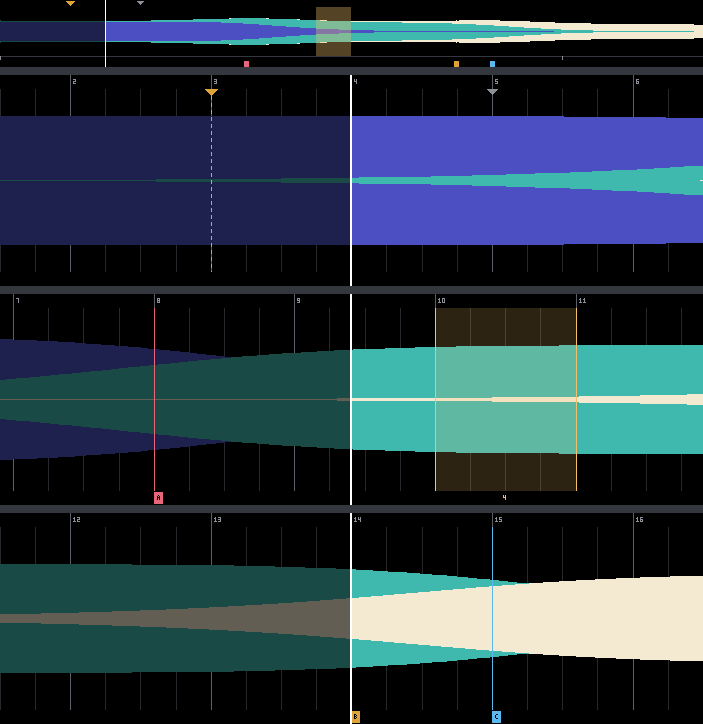
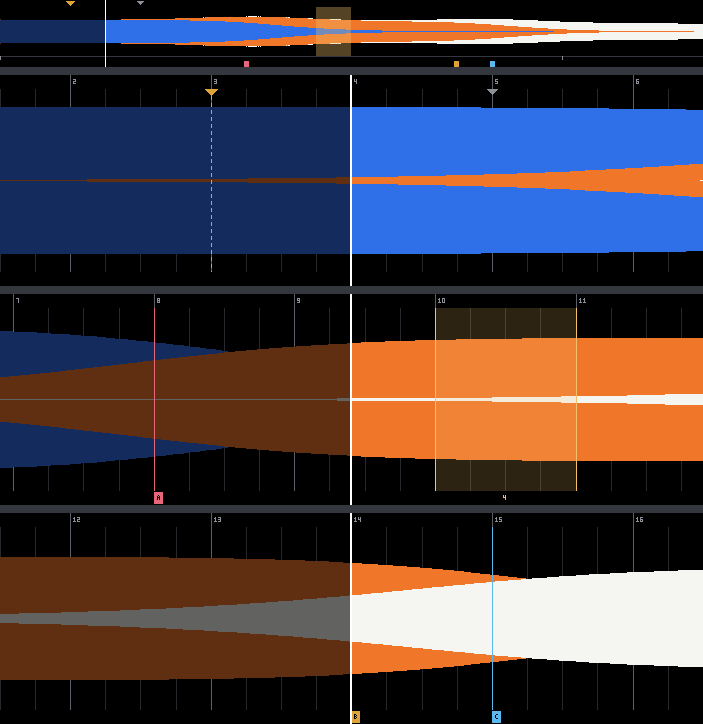
Waveform previews regenerated; decisions recorded in the spike
Auto gain, themes and the blue/orange/white default palette (superseding
the findings.md palette) under Decisions in docs/spikes/waveforms.md.
Previews: default theme for every signal, a -30 dB track with auto gain
(clamped) and with the gain off, findings 3-band and spectrum RGB.

Claude-Session: https://claude.ai/code/session_01KKfr63U2Ath5XMBXePNNQG

diff --git a/docs/spikes/waveforms.md b/docs/spikes/waveforms.md
@@ -1,11 +1,14 @@
 # Waveforms (spike)
 
-Status 2026-10-21: desk research only. No code yet. One measurement: I decoded the ANLZ files of the rekordcrate sweep fixture to check the 3-band byte order (see "Rekordbox").
+Status 2026-10-21: desk research, now implemented in `crates/waveform` (draft PR chdabre/dj-player#1). One measurement: I decoded the ANLZ files of the rekordcrate sweep fixture to check the 3-band byte order (see "Rekordbox").
 
 ## Decisions (project owner, 2026-10-21)
 
 - **Always compute our own waveform**, during decode, for every track. An imported Rekordbox tag is at most a placeholder until ours is ready. This supersedes `docs/research/engine.md` ("use ANLZ waveforms when present"); update the living doc to match.
 - **Three display modes:** single colour, 3-band and RGB (colour from spectral content). All three are drawn from the same stored data: the three band peaks below, with single colour from their combined level and RGB from their ratios. No mode needs extra stored data.
+- **Per-track auto gain** (2026-10-21): loud masters filled the whole height, so heights are normalised per track at display time. The stored data stays absolute. The gain puts the 95th percentile of the combined level at 0.8 of the half-height, clamped to 0.5–4 (silence: 1). It multiplies every height in the zoom and the overview alike, as one uniform. Auto, off or a fixed value is a setting. Implemented as `waveform::display::auto_gain` and `Style::track_gain`.
+- **Colours are a renderer parameter** (2026-10-21), so themes can be applied. Every colour the views draw (waveform palettes, the RGB mode's per-band colours and weights, background, grid, labels, cues, loop, playhead, pad colours) lives in one `Theme` of plain colours and floats (shader uniforms). The renderer hard-codes none. Presets: `default`, `findings` (the old palette) and `spectrum` (RGB weighted low 0.45 / mid 1.0 / high 2.2, since equal weights come out red on real music). Gains and dimming stay display settings next to the theme.
+- **Default 3-band colours: blue low, orange mid, white high** (2026-10-21). This **supersedes the findings.md palette** (indigo #4B4FC2 / teal #3FB8AE / cream #F4EAD2), which stays available as the `findings` theme; the living doc needs updating. Values chosen by eye on the previews: low #2F6FE8, mid #F0762A, high #F5F5F2. The orange started at #F0952E and was moved towards red-orange, because it merged with the amber cue and loop overlays (#E0A33A / #F2C06A). The cue colours were left alone.
 
 ## Short answer
 
